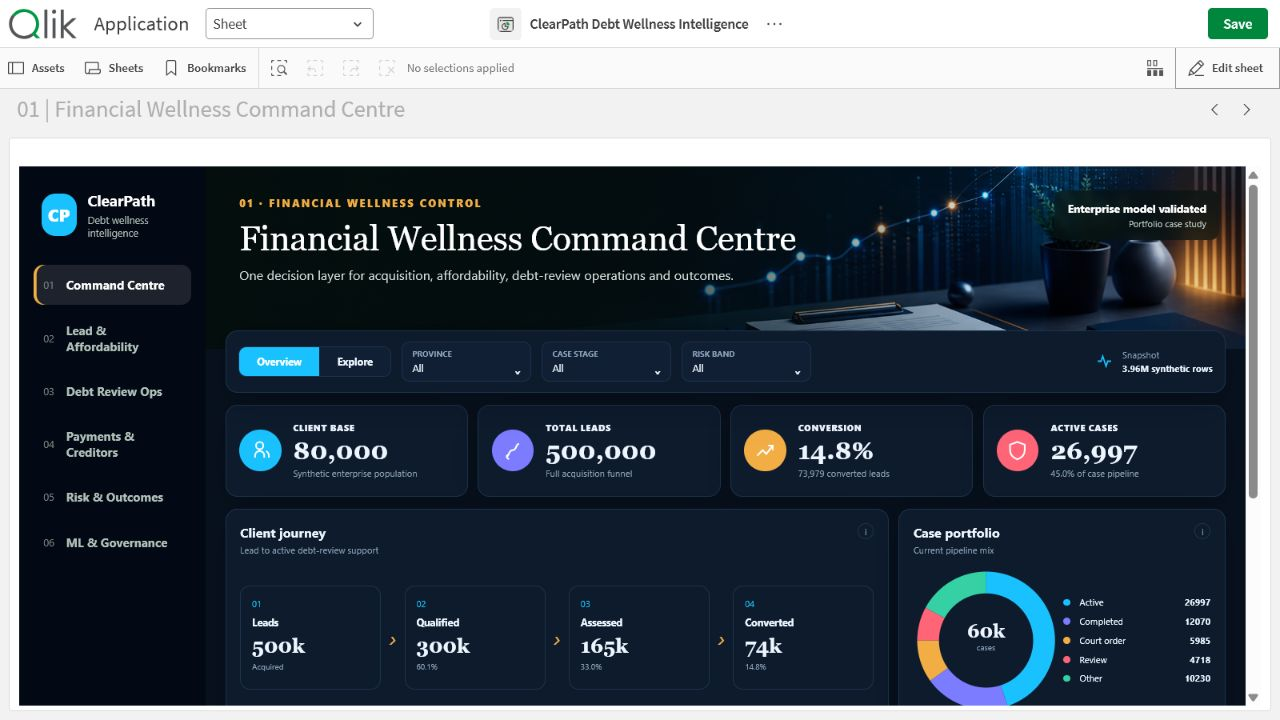
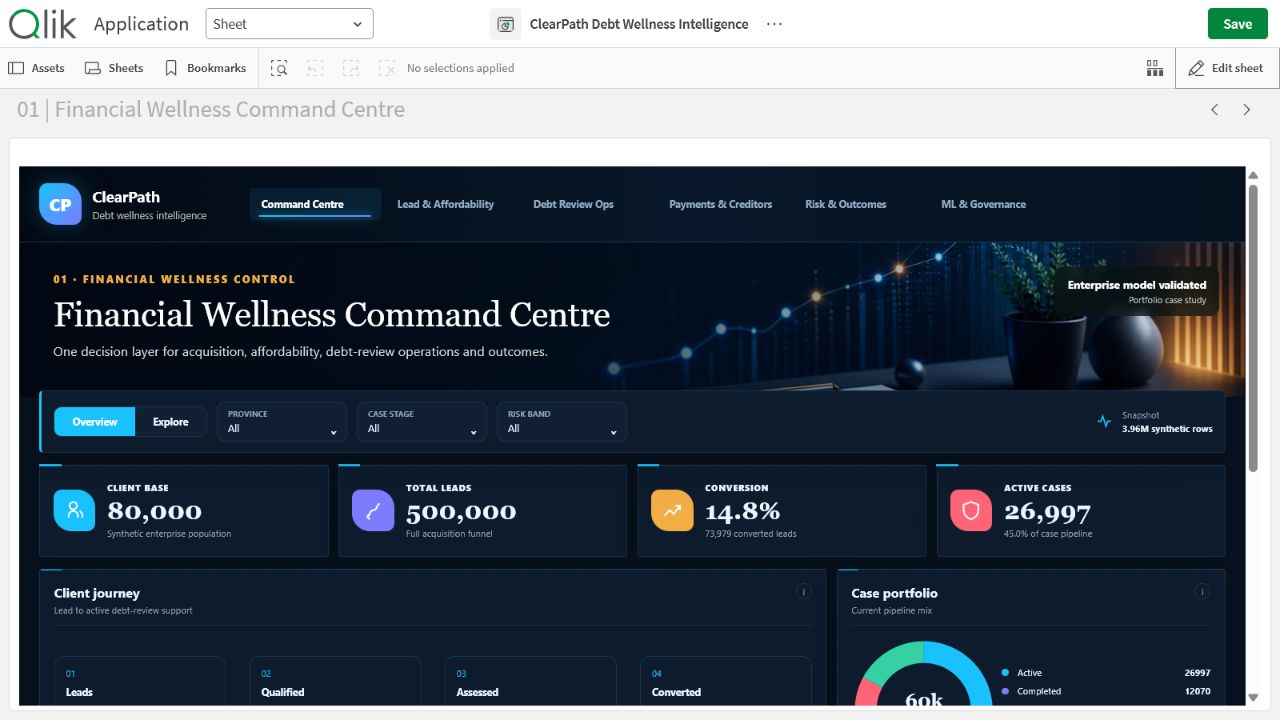
Redesign Qlik app with horizontal command deck

diff --git a/qlik/portfolio/extension/clearpath-debt-intelligence/portfolio-intelligence.css b/qlik/portfolio/extension/clearpath-debt-intelligence/portfolio-intelligence.css
@@ -1,3 +1,71 @@
 :root{--ink:#13211d;--muted:#64716b;--paper:#f6f3ea;--panel:#fff;--accent:#0d7c68;--accent2:#d6a235;--accent3:#db725d;--accent4:#4e7fd0;--accent5:#8b6bb1;--nav:#10251f;--line:#dce2dc}
 *{box-sizing:border-box}.qv-object-content-container{overflow:hidden!important}.pi-shell{position:absolute;inset:0;display:grid;grid-template-columns:186px 1fr;background:var(--paper);color:var(--ink);font-family:"Segoe UI",Arial,sans-serif;overflow:auto}.pi-shell main{min-width:0}.pi-nav{position:sticky;top:0;height:100vh;background:var(--nav);color:#fff;padding:24px 14px;display:flex;flex-direction:column;z-index:3}.pi-brand{display:flex;gap:11px;align-items:center;padding:0 8px 26px}.pi-brand>span{display:grid;place-items:center;width:42px;height:42px;border-radius:14px;background:var(--accent);font-weight:800;font-size:17px}.pi-brand b{font-size:15px}.pi-brand small{display:block;color:#aebdb6;font-size:10px;margin-top:3px}.pi-nav nav{display:grid;gap:5px}.pi-navitem{all:unset;cursor:pointer;display:flex;align-items:center;gap:12px;padding:12px 10px;border-radius:10px;color:#afc0b8}.pi-navitem span{font-size:10px;color:#74877e}.pi-navitem b{font-size:12px}.pi-navitem:hover,.pi-navitem.on{background:rgba(255,255,255,.1);color:#fff}.pi-navitem.on{box-shadow:inset 3px 0 var(--accent2)}.pi-navfoot{margin-top:auto;border-top:1px solid rgba(255,255,255,.12);padding:16px 8px 0;display:grid;grid-template-columns:10px 1fr;column-gap:7px}.pi-status{width:8px;height:8px;border-radius:50%;background:#54d7a0;box-shadow:0 0 10px #54d7a0}.pi-navfoot b{font-size:10px}.pi-navfoot small{grid-column:2;color:#82958c;font-size:9px;margin-top:2px}.pi-hero{height:182px;position:relative;overflow:hidden;background:var(--nav);color:#fff}.pi-heroimg{position:absolute;inset:0;background-image:var(--hero);background-size:cover;background-position:center}.pi-heroshade{position:absolute;inset:0;background:linear-gradient(90deg,rgba(4,15,13,.94) 0%,rgba(4,15,13,.72) 43%,rgba(4,15,13,.08) 78%)}.pi-herotext{position:absolute;left:34px;top:30px;max-width:650px}.pi-kicker{letter-spacing:2px;font-size:10px;font-weight:800;color:var(--accent2);margin-bottom:10px}.pi-herotext h1{font-family:Georgia,serif;font-weight:500;font-size:34px;margin:0 0 8px}.pi-herotext p{font-size:13px;color:#d4dfda;margin:0;max-width:560px;line-height:1.45}.pi-asof{position:absolute;right:26px;top:24px;text-align:right;background:rgba(6,18,16,.68);padding:10px 13px;border-radius:9px;backdrop-filter:blur(4px)}.pi-asof b,.pi-asof span{display:block}.pi-asof b{font-size:11px}.pi-asof span{font-size:9px;color:#b6c7bf;margin-top:3px}.pi-body{padding:0 20px 14px}.pi-filterbar{height:62px;margin-top:-18px;position:relative;background:var(--panel);border:1px solid var(--line);border-radius:12px;display:flex;align-items:center;gap:10px;padding:8px 12px;box-shadow:0 8px 24px rgba(16,32,27,.12);z-index:2}.pi-mode{display:flex;border:1px solid var(--line);border-radius:8px;overflow:hidden}.pi-mode span{padding:8px 18px;font-size:10px;font-weight:700}.pi-mode .active{color:#fff;background:var(--accent)}.pi-filterbar label{border:1px solid var(--line);border-radius:8px;padding:6px 10px;min-width:130px}.pi-filterbar label small{display:block;font-size:8px;color:var(--muted);font-weight:700;text-transform:uppercase}.pi-filterbar label span{display:flex;justify-content:space-between;font-size:10px;margin-top:2px}.pi-snapshot{margin-left:auto;display:flex;align-items:center;gap:8px;color:var(--muted)}.pi-snapshot svg{width:20px;fill:none;stroke:var(--accent);stroke-width:1.7}.pi-snapshot span,.pi-snapshot b{display:block;font-size:9px}.pi-snapshot b{color:var(--ink);margin-top:2px}.pi-kpis{display:grid;grid-template-columns:repeat(4,minmax(0,1fr));gap:10px;margin:12px 0}.pi-kpis article{background:var(--panel);border:1px solid var(--line);border-radius:12px;padding:13px;display:flex;align-items:center;gap:12px;min-height:92px}.pi-kicon{width:42px;height:42px;border-radius:50%;display:grid;place-items:center;color:#fff;background:var(--accent)}.pi-kicon svg{width:22px;fill:none;stroke:currentColor;stroke-width:1.8}.pi-kpis .tone-b .pi-kicon{background:var(--accent4)}.pi-kpis .tone-c .pi-kicon{background:var(--accent2)}.pi-kpis .tone-d .pi-kicon{background:var(--accent3)}.pi-kpis small,.pi-kpis strong,.pi-kpis span{display:block}.pi-kpis small{font-size:9px;font-weight:800;letter-spacing:.4px}.pi-kpis strong{font-family:Georgia,serif;font-size:25px;line-height:1.1;margin:3px 0}.pi-kpis span{font-size:9px;color:var(--muted)}.pi-grid{display:grid;grid-template-columns:repeat(12,minmax(0,1fr));gap:10px}.pi-card{background:var(--panel);border:1px solid var(--line);border-radius:12px;padding:14px;min-height:210px;overflow:hidden}.pi-card.span-4{grid-column:span 4}.pi-card.span-5{grid-column:span 5}.pi-card.span-6{grid-column:span 6}.pi-card.span-7{grid-column:span 7}.pi-card.span-8{grid-column:span 8}.pi-card.span-12{grid-column:span 12}.pi-card>header{display:flex;justify-content:space-between;margin-bottom:12px}.pi-card h2{font-size:13px;margin:0}.pi-card header p{font-size:9px;color:var(--muted);margin:3px 0 0}.pi-info{display:grid;place-items:center;border:1px solid var(--line);color:var(--muted);border-radius:50%;width:16px;height:16px;font-size:9px}.pi-bars{display:grid;gap:9px}.pi-bars label{display:flex;justify-content:space-between;font-size:9px}.pi-bars label b{font-weight:600}.pi-bars i,.pi-scoregrid i{display:block;height:7px;background:#edf0ec;border-radius:6px;overflow:hidden;margin-top:4px}.pi-bars em,.pi-scoregrid em{display:block;height:100%;border-radius:6px;background:var(--accent)}.pi-bars small{font-size:8px;color:var(--muted)}.c0{--c:var(--accent)}.c1{--c:var(--accent4)}.c2{--c:var(--accent2)}.c3{--c:var(--accent3)}.c4{--c:var(--accent5)}em.c0,.pill.c0{background:var(--accent)}em.c1,.pill.c1{background:var(--accent4)}em.c2,.pill.c2{background:var(--accent2)}em.c3,.pill.c3{background:var(--accent3)}em.c4,.pill.c4{background:var(--accent5)}.pi-donut{display:grid;grid-template-columns:150px 1fr;align-items:center;position:relative}.pi-donut svg{width:145px;transform:rotate(-90deg)}.pi-donut circle{fill:none;stroke-width:15}.pi-donut .base{stroke:#eef0ec}.pi-donut circle.c0{stroke:var(--accent)}.pi-donut circle.c1{stroke:var(--accent4)}.pi-donut circle.c2{stroke:var(--accent2)}.pi-donut circle.c3{stroke:var(--accent3)}.pi-donut circle.c4{stroke:var(--accent5)}.pi-donutcore{position:absolute;left:40px;top:52px;width:65px;text-align:center}.pi-donutcore b,.pi-donutcore span{display:block}.pi-donutcore b{font-family:Georgia,serif;font-size:19px}.pi-donutcore span{font-size:8px;color:var(--muted)}.pi-legend{display:grid;gap:7px}.pi-legend div{display:grid;grid-template-columns:9px 1fr auto;gap:7px;align-items:center;font-size:9px}.pi-legend i{width:7px;height:7px;border-radius:50%;background:var(--c)}.pi-line svg{width:100%;height:135px}.pi-line polyline{fill:none;stroke:var(--accent);stroke-width:1.7;vector-effect:non-scaling-stroke}.pi-line>div{display:flex;justify-content:space-between;font-size:8px;color:var(--muted)}.pi-pipeline{display:flex;align-items:center;gap:8px;padding-top:18px}.pi-pipeline article{flex:1;border:1px solid var(--line);padding:11px;border-radius:10px;min-height:104px}.pi-pipeline article span,.pi-pipeline article b,.pi-pipeline article strong,.pi-pipeline article small{display:block}.pi-pipeline article span{font-size:9px;color:var(--accent)}.pi-pipeline article b{font-size:10px;margin:6px 0}.pi-pipeline article strong{font-family:Georgia,serif;font-size:20px}.pi-pipeline article small{font-size:8px;color:var(--muted);margin-top:4px}.pi-pipeline>i{font-size:24px;color:var(--accent2)}.pi-scoregrid{display:grid;gap:10px}.pi-scoregrid article{display:grid;grid-template-columns:1fr auto;gap:3px 10px}.pi-scoregrid b,.pi-scoregrid span{display:block}.pi-scoregrid b{font-size:10px}.pi-scoregrid span{font-size:8px;color:var(--muted)}.pi-scoregrid strong{font-size:15px;color:var(--c)}.pi-scoregrid i{grid-column:1/3}.pi-tablewrap{max-height:230px;overflow:auto}.pi-tablewrap table{width:100%;border-collapse:collapse;font-size:9px}.pi-tablewrap th{text-align:left;color:var(--muted);font-size:8px;text-transform:uppercase;letter-spacing:.3px;padding:7px;border-bottom:1px solid var(--line);position:sticky;top:0;background:var(--panel)}.pi-tablewrap td{padding:8px 7px;border-bottom:1px solid #eef0ed}.pi-matrix{display:grid}.pi-matrix article{display:grid;grid-template-columns:28px 1fr auto 85px;gap:8px;align-items:center;padding:9px 4px;border-bottom:1px solid #edf0ec}.pi-matrix .num{font-size:9px;color:var(--muted)}.pi-matrix b,.pi-matrix small{display:block}.pi-matrix b{font-size:10px}.pi-matrix small{font-size:8px;color:var(--muted)}.pi-matrix strong{font-size:12px}.pi-matrix .pill{color:#fff;text-align:center;border-radius:12px;padding:4px 6px;font-size:8px}.pi-narrative{display:grid;grid-template-columns:1fr 1.2fr;gap:18px}.pi-quote svg{width:28px;fill:none;stroke:var(--accent);stroke-width:1.5}.pi-quote blockquote{font-family:Georgia,serif;font-size:20px;margin:12px 0}.pi-quote p{font-size:10px;color:var(--muted);line-height:1.5}.pi-actions{display:grid;gap:8px}.pi-actions article{display:flex;gap:10px;background:var(--paper);border-radius:9px;padding:10px}.pi-actions span{font-size:9px;color:var(--accent)}.pi-actions b{font-size:10px}.pi-actions p{font-size:8px;color:var(--muted);margin:3px 0 0}.pi-body footer{font-size:8px;color:var(--muted);padding:10px 2px}.theme-debt{--paper:#07111e;--panel:#0d1b2d;--ink:#edf6ff;--muted:#8da2b9;--nav:#030914;--line:#1d334d;--accent:#19c2ff;--accent2:#f3ad45;--accent3:#ff6477;--accent4:#7b7cff;--accent5:#35d1a5}.theme-debt .pi-card,.theme-debt .pi-kpis article,.theme-debt .pi-filterbar{box-shadow:0 10px 32px rgba(0,0,0,.25)}.theme-debt .pi-mode span:not(.active),.theme-debt .pi-filterbar label{background:#101f33}.theme-debt .pi-bars i,.theme-debt .pi-scoregrid i,.theme-debt .pi-donut .base{background:#14263c;stroke:#14263c}.theme-karoo{--paper:#f2e4ca;--panel:#fffaf0;--ink:#2d261d;--muted:#766b5b;--nav:#262a27;--line:#dccdb5;--accent:#008f9d;--accent2:#e18b32;--accent3:#c34f36;--accent4:#4f7c55;--accent5:#78608e}.theme-karoo .pi-card,.theme-karoo .pi-kpis article{border-radius:5px}.theme-karoo .pi-herotext h1{letter-spacing:.5px}.theme-karoo .pi-navitem.on{background:rgba(225,139,50,.16)}
 @media(max-width:1100px){.pi-shell{grid-template-columns:150px 1fr}.pi-kpis{grid-template-columns:repeat(2,1fr)}.pi-card.span-4,.pi-card.span-5,.pi-card.span-6,.pi-card.span-7,.pi-card.span-8{grid-column:span 12}.pi-filterbar label:nth-of-type(n+3){display:none}}
+
+/* Fynbos: organic editorial rail, botanical contour and soft layered paper */
+.theme-wellness .pi-nav{background:
+ radial-gradient(circle at 18% 12%,rgba(214,162,53,.18) 0 2px,transparent 3px),
+ radial-gradient(circle at 82% 44%,rgba(255,255,255,.08) 0 1px,transparent 2px),
+ repeating-radial-gradient(ellipse at -20% 62%,transparent 0 18px,rgba(255,255,255,.035) 19px 20px),
+ var(--nav);background-size:38px 38px,27px 27px,100% 100%,auto;border-right:1px solid rgba(214,162,53,.28)}
+.theme-wellness .pi-nav:before{content:"";position:absolute;left:17px;top:108px;bottom:96px;width:1px;background:linear-gradient(transparent,var(--accent2),transparent);opacity:.55}
+.theme-wellness .pi-brand>span{border-radius:65% 35% 62% 38%/48% 58% 42% 52%;box-shadow:0 0 0 5px rgba(255,255,255,.06)}
+.theme-wellness .pi-navitem{border-radius:24px 9px 24px 9px;margin-left:4px}
+.theme-wellness .pi-navitem.on{box-shadow:inset 3px 0 var(--accent2),0 8px 20px rgba(0,0,0,.16)}
+.theme-wellness main{background:
+ radial-gradient(circle at 96% 8%,rgba(214,162,53,.10),transparent 22%),
+ radial-gradient(circle at 4% 88%,rgba(13,124,104,.08),transparent 24%),var(--paper)}
+.theme-wellness .pi-card{box-shadow:0 8px 24px rgba(44,66,54,.055);position:relative}
+.theme-wellness .pi-card:after{content:"";position:absolute;right:-18px;bottom:-20px;width:76px;height:76px;border:1px solid rgba(13,124,104,.07);border-radius:68% 32% 66% 34%}
+.theme-wellness .pi-kpis article:nth-child(odd){transform:translateY(-2px)}
+
+/* ClearPath: horizontal command deck, angular geometry and evidence grid */
+.theme-debt{grid-template-columns:1fr;grid-template-rows:76px 1fr;background:
+ linear-gradient(rgba(25,194,255,.025) 1px,transparent 1px),
+ linear-gradient(90deg,rgba(25,194,255,.025) 1px,transparent 1px),var(--paper);background-size:28px 28px}
+.theme-debt .pi-nav{grid-row:1;position:sticky;top:0;width:100%;height:76px;padding:10px 20px;display:flex;flex-direction:row;align-items:center;gap:20px;border-bottom:1px solid #1b3652;background:linear-gradient(90deg,#020812 0%,#08182a 55%,#05111f 100%)}
+.theme-debt .pi-brand{padding:0;width:190px;flex:0 0 190px}
+.theme-debt .pi-brand>span{border-radius:8px 18px 8px 18px;background:linear-gradient(135deg,var(--accent),var(--accent4));box-shadow:0 0 24px rgba(25,194,255,.28)}
+.theme-debt .pi-nav nav{display:flex;flex:1;gap:4px;align-items:center}
+.theme-debt .pi-navitem{position:relative;display:grid;grid-template-columns:1fr;padding:10px 12px;border-radius:4px;color:#91a9c1;text-align:left;min-width:108px}
+.theme-debt .pi-navitem span{display:none}.theme-debt .pi-navitem b{font-size:10px;line-height:1.2}
+.theme-debt .pi-navitem.on{background:rgba(25,194,255,.09);box-shadow:none;color:#fff}
+.theme-debt .pi-navitem.on:after{content:"";position:absolute;left:10px;right:10px;bottom:3px;height:2px;background:linear-gradient(90deg,var(--accent),var(--accent4));box-shadow:0 0 10px var(--accent)}
+.theme-debt .pi-navfoot{display:none}.theme-debt main{grid-row:2;min-width:0}
+.theme-debt .pi-hero{height:176px;clip-path:polygon(0 0,100% 0,100% 87%,72% 100%,0 88%)}
+.theme-debt .pi-heroshade{background:linear-gradient(90deg,rgba(1,8,18,.96),rgba(2,15,29,.72) 48%,rgba(3,13,24,.08) 86%)}
+.theme-debt .pi-filterbar{margin-top:-28px;border-radius:4px;border-left:3px solid var(--accent)}
+.theme-debt .pi-kpis article,.theme-debt .pi-card{border-radius:3px;border-top-color:#234462;position:relative}
+.theme-debt .pi-kpis article:before,.theme-debt .pi-card:before{content:"";position:absolute;left:-1px;top:-1px;width:22px;height:2px;background:var(--accent)}
+.theme-debt .pi-kicon{border-radius:8px 18px 8px 18px}
+.theme-debt .pi-card>header{border-bottom:1px solid #183149;padding-bottom:9px}
+
+/* Karoo: right-side field guide, topographic pattern and rugged cards */
+.theme-karoo{grid-template-columns:1fr 176px;background:
+ radial-gradient(circle at 20px 20px,rgba(45,38,29,.055) 1px,transparent 1.5px),
+ linear-gradient(115deg,rgba(225,139,50,.05),transparent 36%),var(--paper);background-size:28px 28px,100% 100%,auto}
+.theme-karoo .pi-nav{grid-column:2;grid-row:1;position:sticky;top:0;height:100vh;background:
+ repeating-linear-gradient(155deg,transparent 0 18px,rgba(255,255,255,.025) 19px 20px),
+ linear-gradient(180deg,#202825,#30271e);border-left:1px solid rgba(225,139,50,.42)}
+.theme-karoo main{grid-column:1;grid-row:1;min-width:0}
+.theme-karoo .pi-brand{flex-direction:column;align-items:flex-start;padding-bottom:20px}
+.theme-karoo .pi-brand>span{border-radius:50% 50% 12% 50%;background:linear-gradient(145deg,var(--accent),#0f5960);transform:rotate(-8deg)}
+.theme-karoo .pi-brand>div{padding-left:3px}.theme-karoo .pi-navitem{border-left:0;border-right:3px solid transparent;border-radius:5px 0 0 5px}
+.theme-karoo .pi-navitem.on{box-shadow:none;border-right-color:var(--accent2);background:linear-gradient(90deg,rgba(225,139,50,.05),rgba(225,139,50,.2))}
+.theme-karoo .pi-hero{height:196px;border-bottom:5px solid var(--accent2)}
+.theme-karoo .pi-hero:after{content:"";position:absolute;left:-40px;bottom:-50px;width:280px;height:100px;border:1px solid rgba(255,255,255,.19);border-radius:50%}
+.theme-karoo .pi-filterbar{border-radius:2px 18px 2px 18px;margin-top:-22px}
+.theme-karoo .pi-kpis article{border-radius:2px 14px 2px 14px;border-bottom:3px solid var(--line);box-shadow:5px 6px 0 rgba(116,86,46,.08)}
+.theme-karoo .pi-card{border-left:4px solid var(--accent);box-shadow:6px 7px 0 rgba(116,86,46,.08)}
+.theme-karoo .pi-card:nth-child(even){border-left-color:var(--accent2)}
+.theme-karoo .pi-kicon{border-radius:50% 50% 8px 50%}
+
+@media(max-width:760px){
+ .pi-shell,.theme-debt,.theme-karoo{display:flex;flex-direction:column;background:var(--paper);width:100%;max-width:100%;overflow-x:hidden}
+ .pi-nav,.theme-debt .pi-nav,.theme-karoo .pi-nav{position:relative;order:0;width:100%;height:68px;min-height:68px;padding:8px 10px;display:flex;flex-direction:row;align-items:center;border:0;border-bottom:1px solid var(--line)}
+ .pi-brand,.theme-debt .pi-brand,.theme-karoo .pi-brand{width:150px;flex:0 0 150px;padding:0;flex-direction:row;align-items:center}.pi-brand>span{width:36px;height:36px}
+ .pi-nav nav,.theme-debt .pi-nav nav,.theme-karoo .pi-nav nav{display:flex;overflow-x:auto;gap:3px}.pi-navitem,.theme-debt .pi-navitem,.theme-karoo .pi-navitem{min-width:92px;padding:9px;border-radius:6px}.pi-navitem span{display:none}.pi-navfoot{display:none}
+ .pi-shell main,.theme-debt main,.theme-karoo main{order:1;width:100%}.pi-hero,.theme-debt .pi-hero,.theme-karoo .pi-hero{height:162px;clip-path:none}.pi-herotext{left:18px;top:22px}.pi-herotext h1{font-size:25px}.pi-asof{display:none}
+ .pi-body{padding:0 10px 12px;min-width:0}.pi-filterbar{height:54px;margin-top:-10px;overflow-x:auto}.pi-filterbar label{min-width:108px}.pi-filterbar .pi-snapshot{display:none}
+ .pi-kpis{grid-template-columns:1fr 1fr;min-width:0}.pi-kpis article{min-height:82px;min-width:0}.pi-grid{display:block;min-width:0}.pi-card{margin-bottom:10px;min-height:190px;max-width:100%}.pi-narrative{grid-template-columns:1fr}.pi-pipeline{overflow-x:auto}.pi-pipeline article{min-width:130px}.pi-tablewrap{overflow:auto}.pi-herotext p{max-width:92%}
+}
